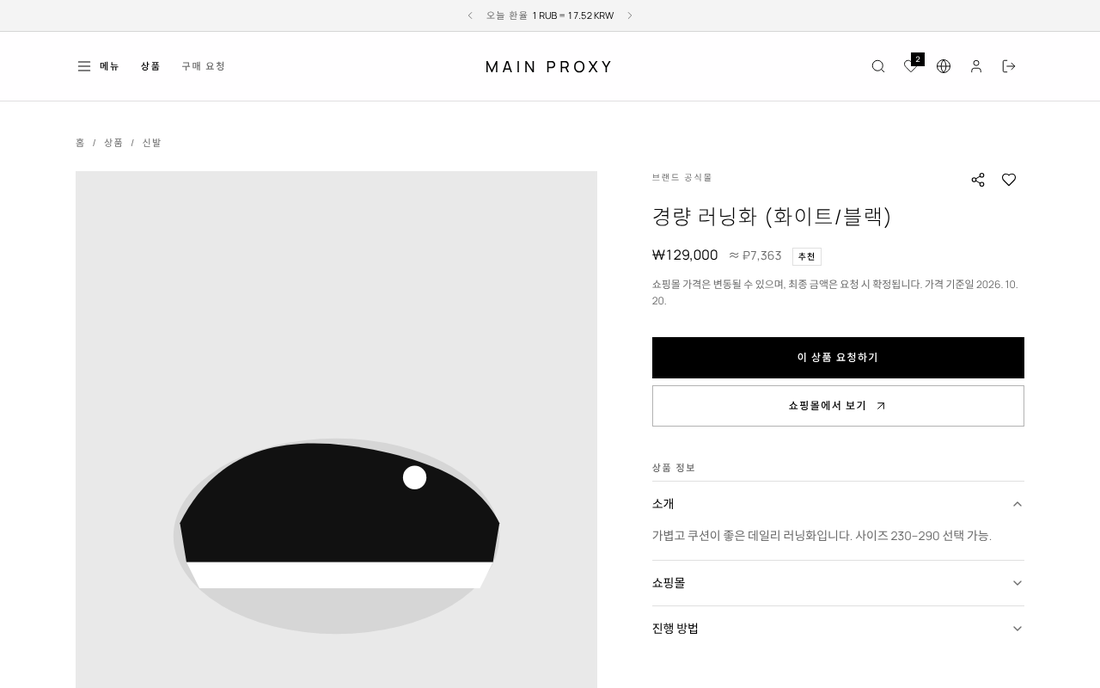
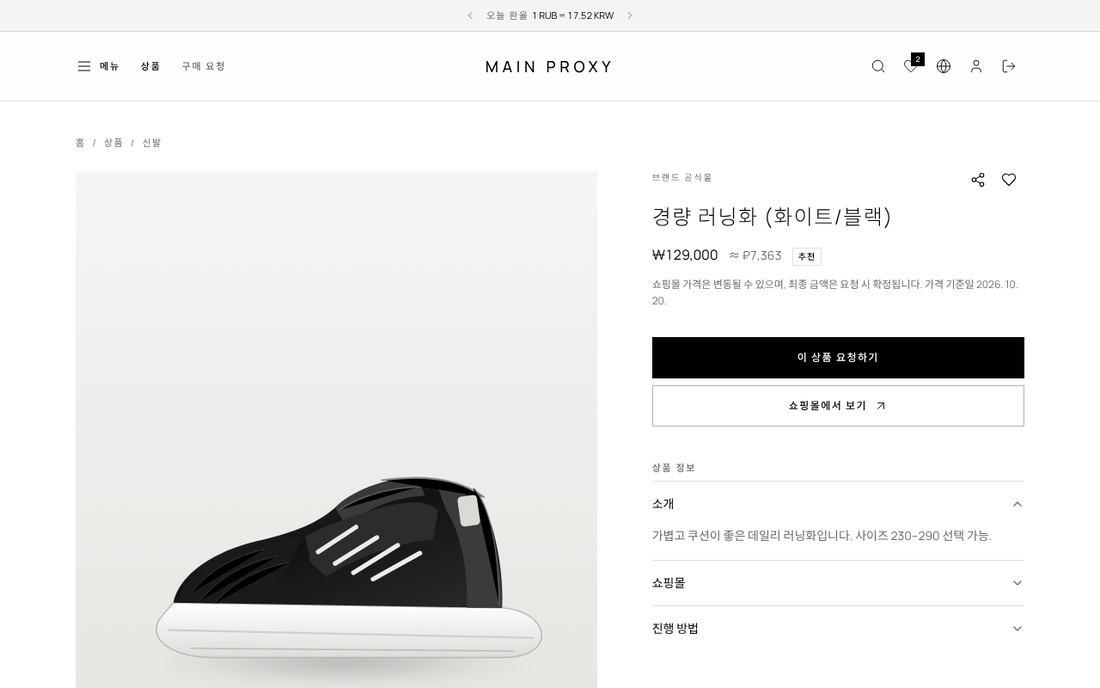
docs: MIT licence and studio-style sample illustrations
- LICENSE: MIT, copyright Main Proxy (ruxpress0228); README badge,
  licence section and footer updated accordingly
- README screenshots re-captured with new sample product illustrations
  drawn as studio shots (soft sweep background, floor shadow, shaded
  objects: sneaker, essence bottle, earbuds case, album box set,
  sunglasses, shampoo pair, canvas tote). All illustrations are original
  work included under the same licence.

Claude-Session: https://claude.ai/code/session_014KnJHiZdcZjP839o8GfUbF

Changed region(s): [[0.1545, 0.641, 0.4636, 1.0], [0.4327, 0.9157, 0.4636, 0.9767]]

diff --git a/README.md b/README.md
@@ -20,6 +20,7 @@
   <img alt="Docker Compose" src="https://img.shields.io/badge/Docker-Compose-000000?logo=docker&logoColor=white">
   <img alt="i18n ko ru en" src="https://img.shields.io/badge/i18n-ko%20%C2%B7%20ru%20%C2%B7%20en-000000">
   <img alt="E2E 34 checks" src="https://img.shields.io/badge/E2E-34%20checks-000000?logo=playwright&logoColor=white">
+  <a href="LICENSE"><img alt="License MIT" src="https://img.shields.io/badge/License-MIT-000000"></a>
 </p>
 
 <p align="center">
@@ -294,6 +295,7 @@ ruxpress/
 ├── sql/             DDL.sql(전체 스키마) · migration_*.sql
 ├── script/          init-db · e2e-smoke · rebuild · manage · init · aws/
 ├── docs/            ENGINEERING.md · screenshots/ · banner.svg
+├── LICENSE          MIT
 └── docker-compose.yml
 ```
 
@@ -303,6 +305,6 @@ ruxpress/
 
 이슈와 PR을 환영합니다. 변경 전 `npm run build`, `npm test`, `mvn test`를 돌리고, 화면을 바꿨다면 `./script/e2e-smoke.sh`로 확인해 주세요.
 
-저장소에는 아직 `LICENSE` 파일이 없어 현재는 **All rights reserved**입니다. 공개 라이선스를 적용하려면 MIT 또는 Apache-2.0 중 하나를 골라 `LICENSE` 파일을 추가하세요. 도입·협업 문의는 GitHub Issues로 남겨 주세요.
+[MIT 라이선스](LICENSE)로 공개합니다. 사내 도입, 수정, 재배포, 상업적 이용 모두 가능하며 저작권 고지만 유지하면 됩니다. 디자인 시스템·일러스트·문구도 저장소 안의 자체 제작물이라 같은 조건으로 쓸 수 있습니다. 도입·협업 문의는 GitHub Issues로 남겨 주세요.
 
-<p align="center"><sub>© 2026 Main Proxy · <a href="docs/ENGINEERING.md">Engineering notes</a> · <a href="https://main-proxy.com">main-proxy.com</a></sub></p>
+<p align="center"><sub>© 2026 Main Proxy · MIT License · <a href="docs/ENGINEERING.md">Engineering notes</a> · <a href="https://main-proxy.com">main-proxy.com</a></sub></p>
